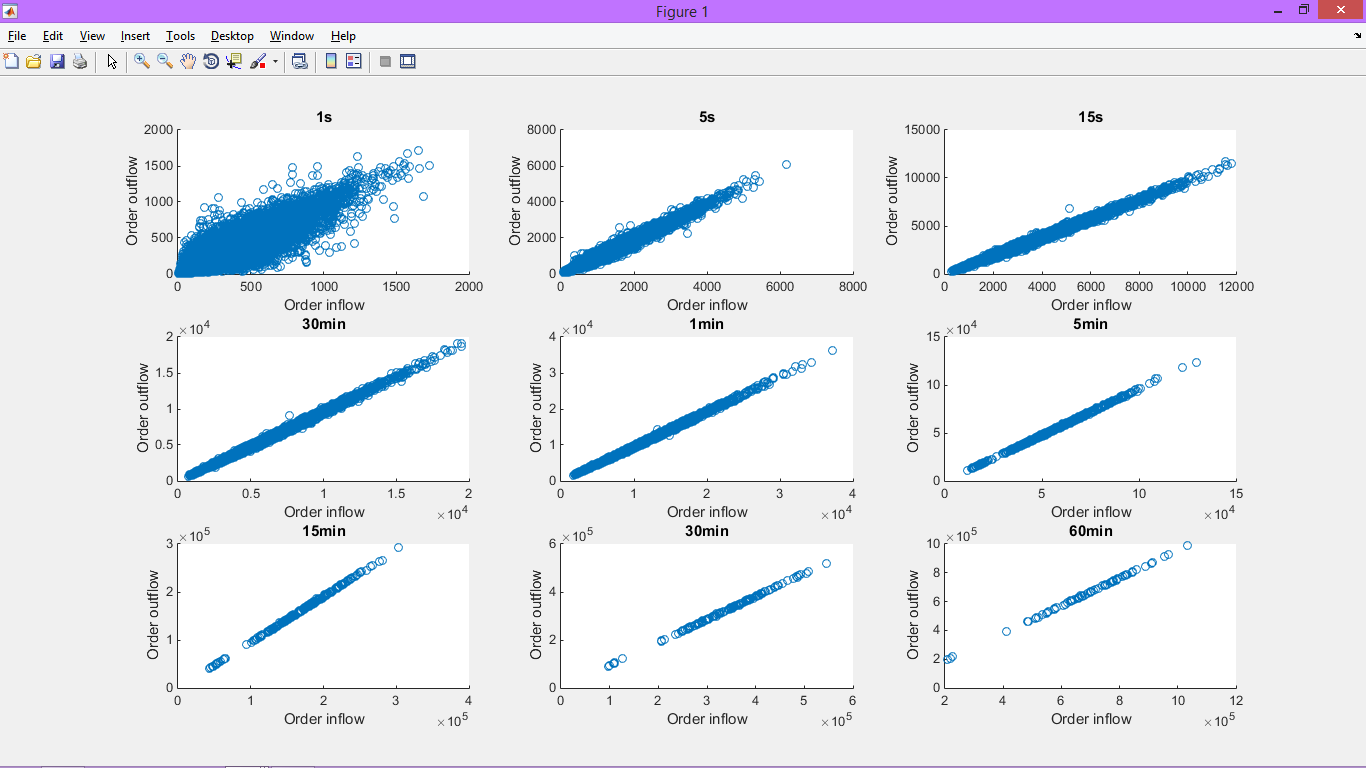
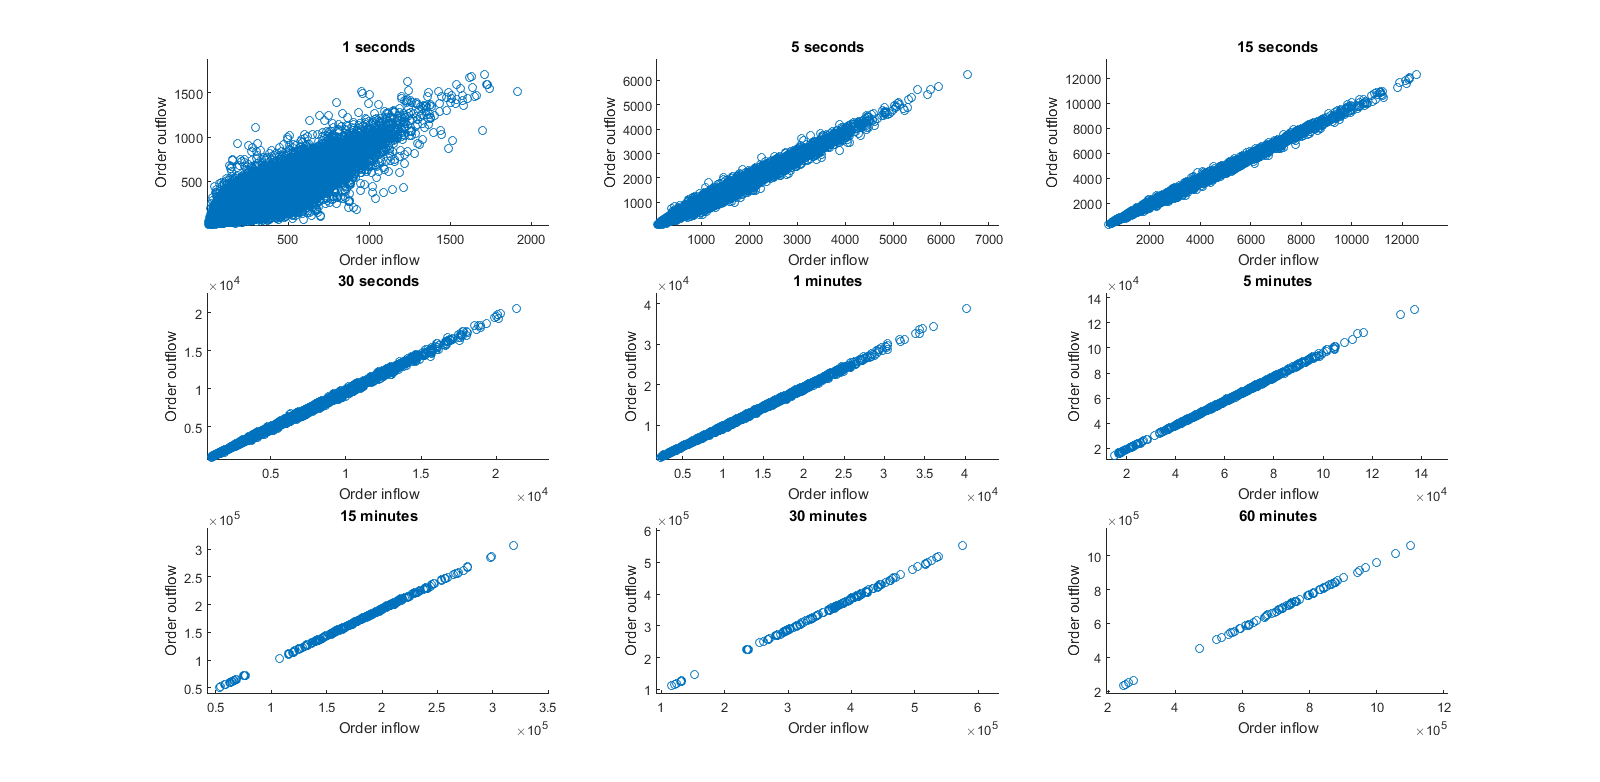
figures， without Sep. 2015

diff --git a/EmpericalResearch/OrderBookConservativeParallel.m b/EmpericalResearch/OrderBookConservativeParallel.m
@@ -2,7 +2,7 @@ clc;clear;
 
 sourcePath = '.\Index Future Tick Data\TruncatedData';
 
-scale = [1];
+scale = [1, 5, 15, 30, 60, 300, 900, 1800];
 beta = zeros(length(scale),1);
 rsquare = zeros(length(scale),1);
 for iscale = 1:length(scale)
@@ -11,26 +11,35 @@ for iscale = 1:length(scale)
     
     timeSteps = seconds(timeScale);
     
-    files = dir([sourcePath,'\201501*.mat']);
+    files = dir([sourcePath,'\201508*.mat']);
+%     files2 = dir([sourcePath,'\201505*.mat']);
+%     files3 = dir([sourcePath,'\201506*.mat']);
+%     
+%     fields = fieldnames(files1);
+%     temp = [struct2cell(files1), struct2cell(files2), struct2cell(files3)];
+%     files = cell2struct(temp,fields);
+%     clear files1 files2 files3 temp
     
-    outflow = zeros(14400/timeScale,length(files));
+%     timeFlag = [datetime(0,0,0,9,30,0.0,'Format','HH:mm:ss:SSS'),datetime(0,0,0,11,30,0.0,'Format','HH:mm:ss:SSS'); ...
+%         datetime(0,0,0,13,0,0.0,'Format','HH:mm:ss:SSS'),datetime(0,0,0,15,0,0.0,'Format','HH:mm:ss:SSS')];
+%     timeGrid = [];
+%     for i = 1:2
+%         timeGrid = [timeGrid,timeFlag(i,1):timeSteps:timeFlag(i,2)];
+%     end
+    
+    timeGrid = datetime(0,0,0,11,0,0.0,'Format','HH:mm:ss:SSS'):timeSteps:datetime(0,0,0,11,30,0.0,'Format','HH:mm:ss:SSS');
+    N = length(files);
+    
+    outflow = zeros((length(timeGrid)-1),N);
     inflow = outflow;
     
-    timeFlag = [datetime(0,0,0,9,30,0.0,'Format','HH:mm:ss:SSS'),datetime(0,0,0,11,30,0.0,'Format','HH:mm:ss:SSS'); ...
-        datetime(0,0,0,13,0,0.0,'Format','HH:mm:ss:SSS'),datetime(0,0,0,15,0,0.0,'Format','HH:mm:ss:SSS')];
-    timeGrid = [];
-    for i = 1:2
-        timeGrid = [timeGrid,timeFlag(i,1):timeSteps:timeFlag(i,2)];
-    end
-    
-    N = length(files);
     display(sprintf('***Orderbook Conservation Analysis: time scale %d seconds***', timeScale))
     tic;
     parfor fIndex = 1:N
         x = load([sourcePath,'\',files(fIndex).name]);
         data = x.data;
         counter = 1;
-        tempIn = zeros(14400/timeScale,1);
+        tempIn = zeros((length(timeGrid)-1),1);
         tempOut = tempIn;
         for tIndex = 1:length(timeGrid)-1
             if(timeGrid(tIndex) == datetime(0,0,0,11,30,0.0,'Format','HH:mm:ss:SSS'))
@@ -63,7 +72,7 @@ for iscale = 1:length(scale)
     xlabel('Order inflow');
     ylabel('Order outflow');
     
-    if(timeScale<=60)
+    if(timeScale<60)
         title([num2str(timeScale),' seconds']);
     else
         title([num2str(timeScale/60),' minutes']);
@@ -72,3 +81,4 @@ for iscale = 1:length(scale)
     set(gca,'YLim',[0.8*min(outflow) 1.1*max(outflow)])
     toc
 end
+toc
